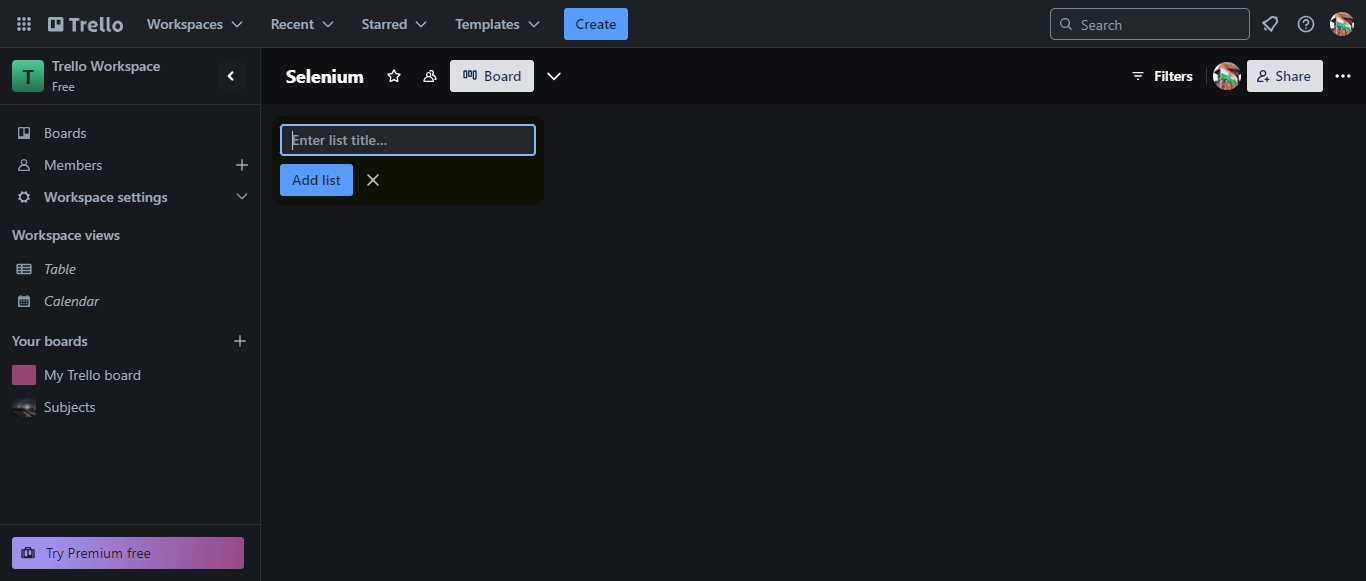
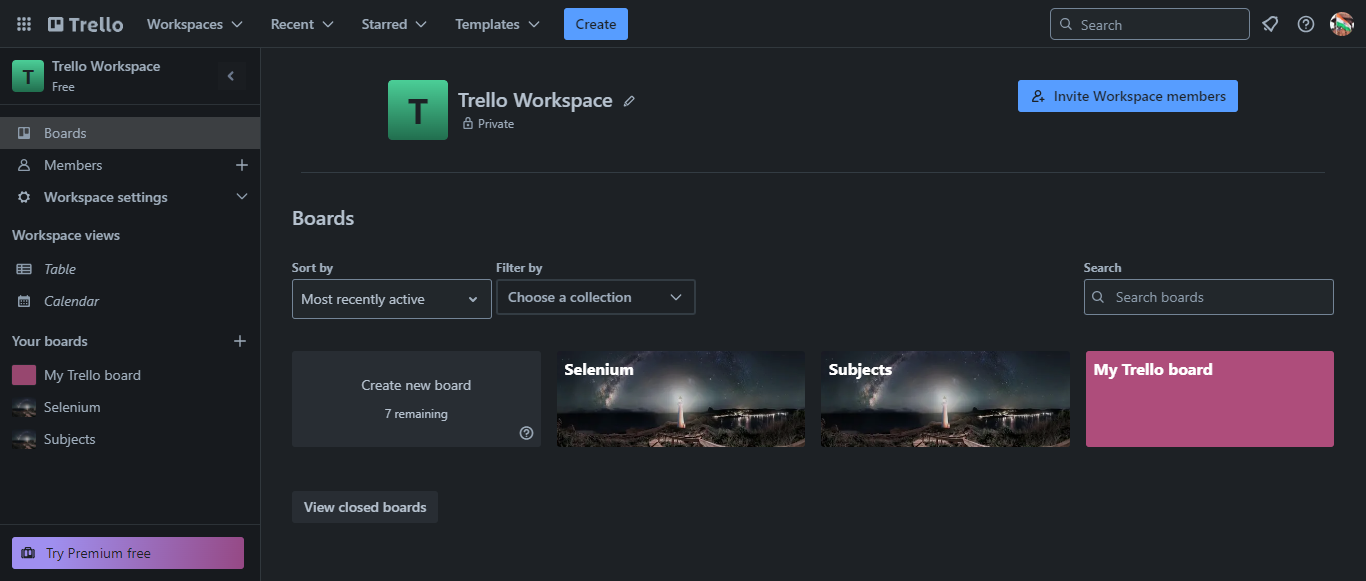
modified package names

diff --git a/test-output/index.html b/test-output/index.html
@@ -50,7 +50,7 @@
               <ul>
                 <li>
                   <a href="#" panel-name="test-xml-Default_suite" class="navigator-link ">
-                    <span>C:\Users\ROHIT M\AppData\Local\Temp\testng-eclipse-1024144711\testng-customsuite.xml</span>
+                    <span>C:\Users\ROHIT M\AppData\Local\Temp\testng-eclipse--1440967575\testng-customsuite.xml</span>
                   </a> <!-- navigator-link  -->
                 </li>
                 <li>
@@ -60,7 +60,7 @@
                 </li>
                 <li>
                   <a href="#" panel-name="group-Default_suite" class="navigator-link ">
-                    <span>1 group</span>
+                    <span>2 groups</span>
                   </a> <!-- navigator-link  -->
                 </li>
                 <li>
@@ -103,7 +103,7 @@
                     <div class="method-list-content passed suite-Default_suite">
                       <span>
                         <img src="passed.png" width="3%"/>
-                        <a href="#" panel-name="suite-Default_suite" title="trelloapp_test.TrelloAppTest" class="method navigator-link" hash-for-method="checkWhetherTheEndUserIsAbleToCreateABoard">checkWhetherTheEndUserIsAbleToCreateABoard</a> <!-- method navigator-link -->
+                        <a href="#" panel-name="suite-Default_suite" title="trelloapp.TrelloAppTest" class="method navigator-link" hash-for-method="checkWhetherTheEndUserIsAbleToCreateABoard">checkWhetherTheEndUserIsAbleToCreateABoard</a> <!-- method navigator-link -->
                       </span>
                       <br/>
                     </div> <!-- method-list-content passed suite-Default_suite -->
@@ -121,7 +121,7 @@
           <div class="suite-Default_suite-class-passed">
             <div class="main-panel-header rounded-window-top">
               <img src="passed.png"/>
-              <span class="class-name">trelloapp_test.TrelloAppTest</span>
+              <span class="class-name">trelloapp.TrelloAppTest</span>
             </div> <!-- main-panel-header rounded-window-top -->
             <div class="main-panel-content rounded-window-bottom">
               <div class="method">
@@ -136,7 +136,7 @@
         </div> <!-- panel Default_suite -->
         <div panel-name="test-xml-Default_suite" class="panel">
           <div class="main-panel-header rounded-window-top">
-            <span class="header-content">C:\Users\ROHIT M\AppData\Local\Temp\testng-eclipse-1024144711\testng-customsuite.xml</span>
+            <span class="header-content">C:\Users\ROHIT M\AppData\Local\Temp\testng-eclipse--1440967575\testng-customsuite.xml</span>
           </div> <!-- main-panel-header rounded-window-top -->
           <div class="main-panel-content rounded-window-bottom">
             <pre>
@@ -145,11 +145,11 @@
 &lt;suite name=&quot;Default suite&quot; guice-stage=&quot;DEVELOPMENT&quot;&gt;
   &lt;test thread-count=&quot;5&quot; name=&quot;Default test&quot; verbose=&quot;2&quot;&gt;
     &lt;classes&gt;
-      &lt;class name=&quot;trelloapp_test.TrelloAppTest&quot;&gt;
+      &lt;class name=&quot;trelloapp.TrelloAppTest&quot;&gt;
         &lt;methods&gt;
           &lt;include name=&quot;checkWhetherTheEndUserIsAbleToCreateABoard&quot;/&gt;
         &lt;/methods&gt;
-      &lt;/class&gt; &lt;!-- trelloapp_test.TrelloAppTest --&gt;
+      &lt;/class&gt; &lt;!-- trelloapp.TrelloAppTest --&gt;
     &lt;/classes&gt;
   &lt;/test&gt; &lt;!-- Default test --&gt;
 &lt;/suite&gt; &lt;!-- Default suite --&gt;
@@ -181,6 +181,14 @@
                 <br/>
               </div> <!-- method-in-group -->
             </div> <!-- test-group -->
+            <div class="test-group">
+              <span class="test-group-name">integration</span>
+              <br/>
+              <div class="method-in-group">
+                <span class="method-in-group-name">checkWhetherTheEndUserIsAbleToCreateABoard</span>
+                <br/>
+              </div> <!-- method-in-group -->
+            </div> <!-- test-group -->
           </div> <!-- main-panel-content rounded-window-bottom -->
         </div> <!-- panel -->
         <div panel-name="times-Default_suite" class="panel">
@@ -200,13 +208,13 @@ data.addColumn('number', 'Time (ms)');
 data.addRows(1);
 data.setCell(0, 0, 0)
 data.setCell(0, 1, 'checkWhetherTheEndUserIsAbleToCreateABoard')
-data.setCell(0, 2, 'trelloapp_test.TrelloAppTest')
-data.setCell(0, 3, 64899);
+data.setCell(0, 2, 'trelloapp.TrelloAppTest')
+data.setCell(0, 3, 28025);
 window.suiteTableData['Default_suite']= { tableData: data, tableDiv: 'times-div-Default_suite'}
 return data;
 }
               </script>
-              <span class="suite-total-time">Total running time: 1 minutes</span>
+              <span class="suite-total-time">Total running time: 28 seconds</span>
               <div id="times-div-Default_suite">
               </div> <!-- times-div-Default_suite -->
             </div> <!-- times-div -->
@@ -225,13 +233,13 @@ return data;
           </div> <!-- main-panel-header rounded-window-top -->
           <div class="main-panel-content rounded-window-bottom">
             <div class="ignored-class-div">
-              <span class="ignored-class-name">trelloapp_test.TrelloAppTest</span>
+              <span class="ignored-class-name">trelloapp.TrelloAppTest</span>
               <div class="ignored-methods-div">
-                <span class="ignored-method-name">writeAScriptToCheckClickHoldAndReleaseFunctionalityWithCardsAndListsInTrelloBoardsPage</span>
-                <br/>
                 <span class="ignored-method-name">checkWhetherTheEndUserIsAbleToLogin</span>
                 <br/>
                 <span class="ignored-method-name">checkWhetherTheEndUserIsAbleToCreateAndDeleteTheBoard</span>
+                <br/>
+                <span class="ignored-method-name">writeAScriptToCheckClickHoldAndReleaseFunctionalityWithCardsAndListsInTrelloBoardsPage</span>
                 <br/>
               </div> <!-- ignored-methods-div -->
             </div> <!-- ignored-class-div -->
@@ -243,18 +251,18 @@ return data;
           </div> <!-- main-panel-header rounded-window-top -->
           <div class="main-panel-content rounded-window-bottom">
             <div class="chronological-class">
-              <div class="chronological-class-name">trelloapp_test.TrelloAppTest</div> <!-- chronological-class-name -->
+              <div class="chronological-class-name">trelloapp.TrelloAppTest</div> <!-- chronological-class-name -->
               <div class="configuration-method before">
                 <span class="method-name">setUp</span>
                 <span class="method-start">0 ms</span>
               </div> <!-- configuration-method before -->
               <div class="test-method">
                 <span class="method-name">checkWhetherTheEndUserIsAbleToCreateABoard</span>
-                <span class="method-start">19955 ms</span>
+                <span class="method-start">13311 ms</span>
               </div> <!-- test-method -->
               <div class="configuration-method after">
                 <span class="method-name">tearDown</span>
-                <span class="method-start">85056 ms</span>
+                <span class="method-start">41587 ms</span>
               </div> <!-- configuration-method after -->
           </div> <!-- main-panel-content rounded-window-bottom -->
         </div> <!-- panel -->

diff --git a/test-output/emailable-report.html b/test-output/emailable-report.html
@@ -9,10 +9,10 @@
 <table>
 <tr><th>Test</th><th># Passed</th><th># Skipped</th><th># Retried</th><th># Failed</th><th>Time (ms)</th><th>Included Groups</th><th>Excluded Groups</th></tr>
 <tr><th colspan="8">Default suite</th></tr>
-<tr><td><a href="#t0">Default test</a></td><td class="num">1</td><td class="num">0</td><td class="num">0</td><td class="num">0</td><td class="num">87,076</td><td></td><td></td></tr>
+<tr><td><a href="#t0">Default test</a></td><td class="num">1</td><td class="num">0</td><td class="num">0</td><td class="num">0</td><td class="num">45,181</td><td></td><td></td></tr>
 </table>
-<table id='summary'><thead><tr><th>Class</th><th>Method</th><th>Start</th><th>Time (ms)</th></tr></thead><tbody><tr><th colspan="4">Default suite</th></tr></tbody><tbody id="t0"><tr><th colspan="4">Default test &#8212; passed</th></tr><tr class="passedeven"><td rowspan="1">trelloapp_test.TrelloAppTest</td><td><a href="#m0">checkWhetherTheEndUserIsAbleToCreateABoard</a></td><td rowspan="1">1718899891732</td><td rowspan="1">64899</td></tr></tbody>
+<table id='summary'><thead><tr><th>Class</th><th>Method</th><th>Start</th><th>Time (ms)</th></tr></thead><tbody><tr><th colspan="4">Default suite</th></tr></tbody><tbody id="t0"><tr><th colspan="4">Default test &#8212; passed</th></tr><tr class="passedeven"><td rowspan="1">trelloapp.TrelloAppTest</td><td><a href="#m0">checkWhetherTheEndUserIsAbleToCreateABoard</a></td><td rowspan="1">1718940111743</td><td rowspan="1">28025</td></tr></tbody>
 </table>
-<h2>Default test</h2><h3 id="m0">trelloapp_test.TrelloAppTest#checkWhetherTheEndUserIsAbleToCreateABoard</h3><table class="result"><tr><th class="invisible"/></tr></table><p class="totop"><a href="#summary">back to summary</a></p>
+<h2>Default test</h2><h3 id="m0">trelloapp.TrelloAppTest#checkWhetherTheEndUserIsAbleToCreateABoard</h3><table class="result"><tr><th class="invisible"/></tr></table><p class="totop"><a href="#summary">back to summary</a></p>
 </body>
 </html>

diff --git a/test-output/Default suite/Default test.html b/test-output/Default suite/Default test.html
@@ -57,9 +57,9 @@ function toggleAllBoxes() {
 <tr>
 <td>Tests passed/Failed/Skipped:</td><td>1/0/0</td>
 </tr><tr>
-<td>Started on:</td><td>Thu Jun 20 21:41:11 IST 2024</td>
+<td>Started on:</td><td>Fri Jun 21 08:51:38 IST 2024</td>
 </tr>
-<tr><td>Total time:</td><td>87 seconds (87076 ms)</td>
+<tr><td>Total time:</td><td>45 seconds (45181 ms)</td>
 </tr><tr>
 <td>Included groups:</td><td></td>
 </tr><tr>
@@ -76,10 +76,10 @@ function toggleAllBoxes() {
 <td><b>Instance</b></td>
 </tr>
 <tr>
-<td title='trelloapp_test.TrelloAppTest.checkWhetherTheEndUserIsAbleToCreateABoard()'><b>checkWhetherTheEndUserIsAbleToCreateABoard</b><br>Test class: trelloapp_test.TrelloAppTest</td>
+<td title='trelloapp.TrelloAppTest.checkWhetherTheEndUserIsAbleToCreateABoard()'><b>checkWhetherTheEndUserIsAbleToCreateABoard</b><br>Test class: trelloapp.TrelloAppTest</td>
 <td></td>
-<td>64</td>
-<td>trelloapp_test.TrelloAppTest@443118b0</td></tr>
+<td>28</td>
+<td>trelloapp.TrelloAppTest@443118b0</td></tr>
 </table><p>
 </body>
 </html>

diff --git a/src/test/java/trelloapp/TrelloAppTest.java b/src/test/java/trelloapp/TrelloAppTest.java
@@ -14,6 +14,7 @@ import pomrepo.TrelloLoginPage;
 import pomrepo.TrelloLogoutPage;
 import pomrepo.TrelloTopicPage;
 import pomrepo.TrelloWelcomePage;
+import pomrepo.TrelloWorkspacePage;
 
 @Listeners(ListenersImplementation.class)
 public class TrelloAppTest extends BaseClass {
@@ -57,14 +58,16 @@ public class TrelloAppTest extends BaseClass {
 		}
 	}
 
-	@Test(priority = 1, groups = {"functional", "integration"} )
-	public void checkWhetherTheEndUserIsAbleToCreateABoard() throws IOException {
+	@Test(priority = 1, groups = { "functional", "integration" })
+	public void createABoardAndVerifyItOnTheDashboard() throws IOException {
 
 		try {
 
 			TrelloWelcomePage welcomePage = new TrelloWelcomePage(driver);
 			TrelloLoginPage loginPage = new TrelloLoginPage(driver);
 			TrelloBoardsPage boardsPage = new TrelloBoardsPage(driver);
+			TrelloTopicPage topicPage = new TrelloTopicPage(driver);
+			TrelloWorkspacePage workspacePage = new TrelloWorkspacePage(driver);
 
 			webdriverUtils.waitForATitle(driver, "Manage Your Team’s Projects From Anywhere | Trello");
 			Assert.assertEquals(driver.getTitle(), "Manage Your Team’s Projects From Anywhere | Trello",
@@ -104,6 +107,16 @@ public class TrelloAppTest extends BaseClass {
 
 			webdriverUtils.waitForATitle(driver, "Selenium | Trello");
 			Assert.assertEquals(driver.getTitle(), "Selenium | Trello", "Topic page title does not match");
+
+			webdriverUtils.waitTillElementToBeClickable(driver, topicPage.getBoardsOption());
+			topicPage.getBoardsOption().click();
+
+			webdriverUtils.waitForTitleContains(driver, "Trello Workspace (userworkspace");
+			Assert.assertTrue(driver.getTitle().contains("Trello Workspace (userworkspace"), "Workspace title does not match");
+
+			webdriverUtils.waitTillElementToBeVisible(driver, workspacePage.getCreatedBoardName());
+			Assert.assertNotNull(workspacePage.getCreatedBoardName(),
+					"The new board should appear on the dashboard with the correct name.");
 
 		} catch (Exception e) {
 			e.printStackTrace();

diff --git a/src/main/java/pomrepo/TrelloTopicPage.java b/src/main/java/pomrepo/TrelloTopicPage.java
@@ -28,6 +28,9 @@ public class TrelloTopicPage {
 
 	@FindBy(xpath = "//button[normalize-space()='Delete']")
 	WebElement deleteOption;
+	
+	@FindBy(xpath = "//p[text()='Boards']")
+	WebElement boardsOption;
 
 	@FindBy(xpath = "(//textarea[@data-testid='list-name-textarea'])[1]")
 	WebElement listNameTextarea1;
@@ -101,6 +104,10 @@ public class TrelloTopicPage {
 
 	public WebElement getDeleteOption() {
 		return deleteOption;
+	}
+	
+	public WebElement getBoardsOption() {
+		return boardsOption;
 	}
 
 	public WebElement getListNameTextarea1() {

diff --git a/src/main/java/pomrepo/TrelloWorkspacePage.java b/src/main/java/pomrepo/TrelloWorkspacePage.java
@@ -1,0 +1,23 @@
+package pomrepo;
+
+import org.openqa.selenium.WebDriver;
+import org.openqa.selenium.WebElement;
+import org.openqa.selenium.support.FindBy;
+import org.openqa.selenium.support.PageFactory;
+
+public class TrelloWorkspacePage {
+	WebDriver driver;
+
+	public TrelloWorkspacePage(WebDriver driver) {
+		this.driver = driver;
+		PageFactory.initElements(driver, this);
+	}
+	
+	@FindBy(xpath = "//div[@title='Selenium']")
+	WebElement createdBoard ;
+	
+	public WebElement getCreatedBoardName() {
+		return createdBoard;
+	}
+	
+}

diff --git a/src/main/java/pomrepo/TrelloBoardsPage.java b/src/main/java/pomrepo/TrelloBoardsPage.java
@@ -22,6 +22,9 @@ public class TrelloBoardsPage {
 
 	@FindBy(xpath = "//button[text()='Create']")
 	WebElement createOption;
+	
+	@FindBy(xpath = "//div[@title='Selenium']")
+	WebElement createdBoard ;
 
 	@FindBy(xpath = "//div[@data-testid='header-member-menu-avatar']//span")
 	WebElement menuIcon;
@@ -39,6 +42,10 @@ public class TrelloBoardsPage {
 
 	public WebElement getCreateOption() {
 		return createOption;
+	}
+	
+	public WebElement getCreatedBoardName() {
+		return createdBoard;
 	}
 
 	public WebElement getMenuIcon() {

diff --git a/src/test/java/sampleform/WebFormTest.java b/src/test/java/sampleform/WebFormTest.java
@@ -1,4 +1,4 @@
-package form;
+package sampleform;
 
 import java.io.IOException;
 
